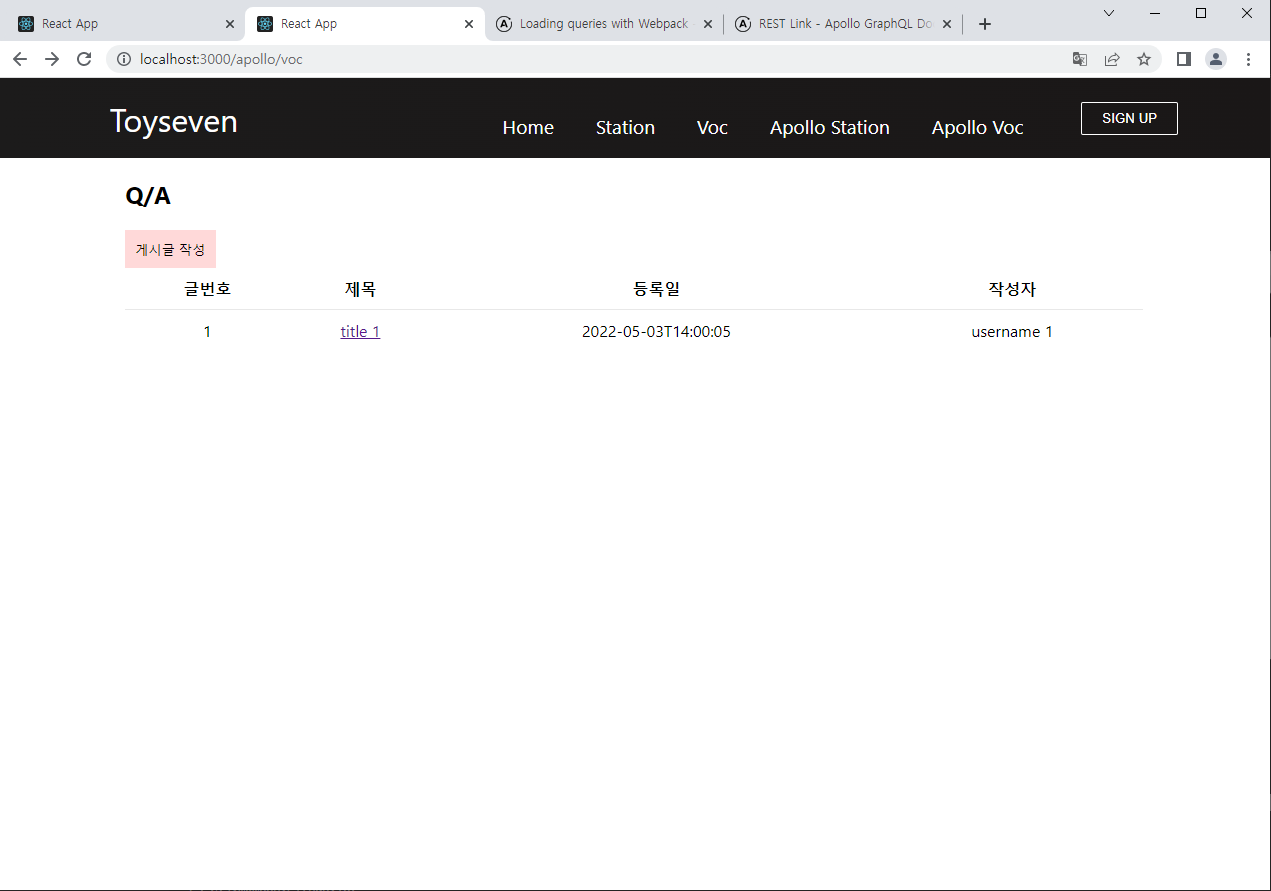
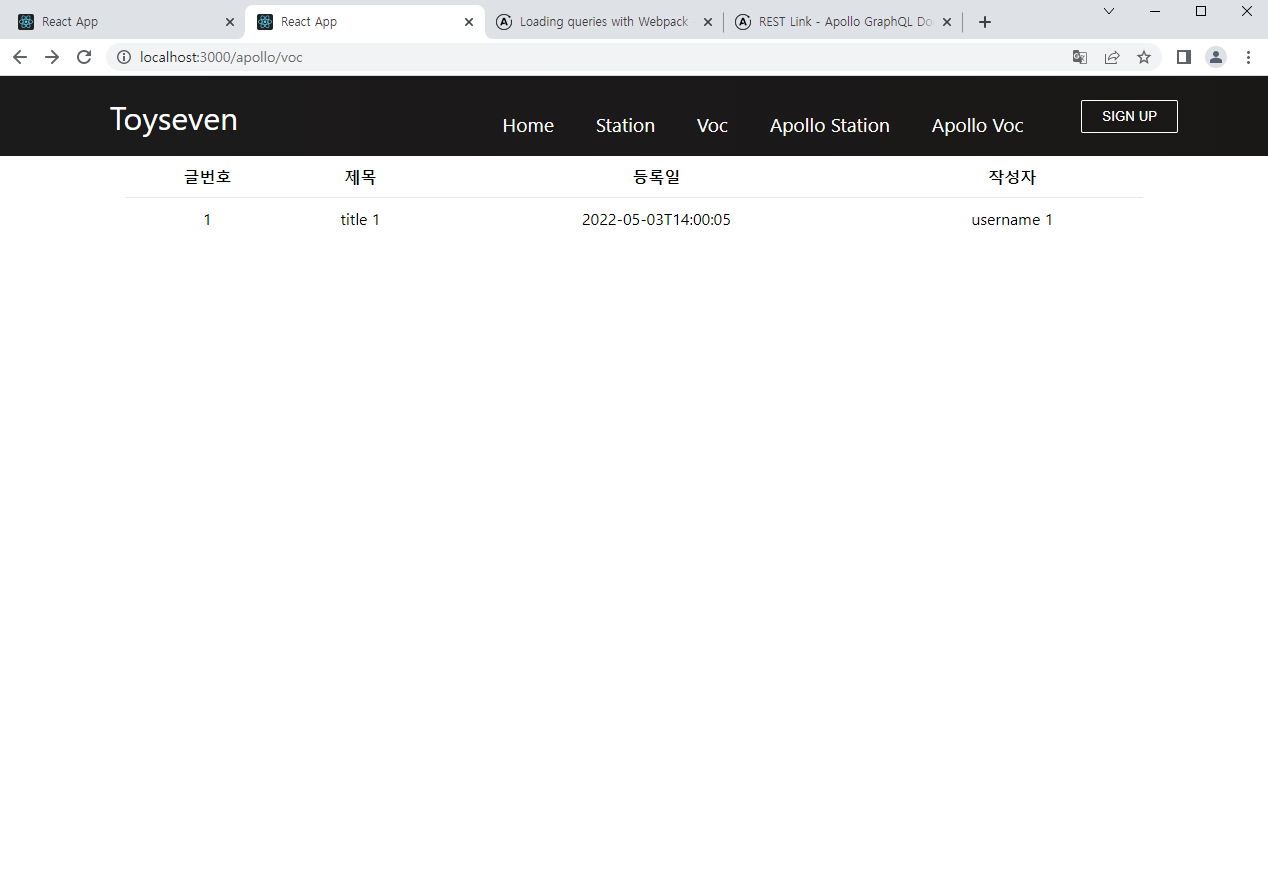
style: Update to match title

diff --git a/_posts/react/2022-05-03-React-10-Apollo-Voc.md b/_posts/react/2022-05-03-React-10-Apollo-Voc.md
@@ -59,12 +59,10 @@ export default App;
 import React, {useState } from 'react';
 import { ApolloClient, InMemoryCache, gql } from '@apollo/client';
 import { RestLink } from 'apollo-link-rest';
-import { Link } from 'react-router-dom';
 
 import CommonTable from '../../../components/table/CommonTable';
 import CommonTableColumn from '../../../components/table/CommonTableColumn';
 import CommonTableRow from '../../../components/table/CommonTableRow';
-import VocHeader from '../../../components/voc/VocHeader';
 
 // Set `RestLink` with your endpoint
 const restLink = new RestLink({ uri: "http://127.0.0.1:8000/toyseven" });
@@ -101,11 +99,7 @@ function GetData() {
   const item = questions && Object.values(questions).map((voc) => (
     <CommonTableRow key={voc.id}>
       <CommonTableColumn>{voc.id}</CommonTableColumn>
-      <CommonTableColumn>
-        <Link to={`/apollo/voc/${voc.id}`}>
-          {voc.title}
-        </Link>
-      </CommonTableColumn>
+      <CommonTableColumn>{voc.title}</CommonTableColumn>
       <CommonTableColumn>{voc.createdAt}</CommonTableColumn>
       <CommonTableColumn>{voc.username}</CommonTableColumn>
     </CommonTableRow>
@@ -119,7 +113,6 @@ function ApolloVoc() {
   const item = GetData();
 
   return (<>
-    <VocHeader></VocHeader>
     <CommonTable headersName={['글번호', '제목', '등록일', '작성자']}>
       {item}
     </CommonTable>
